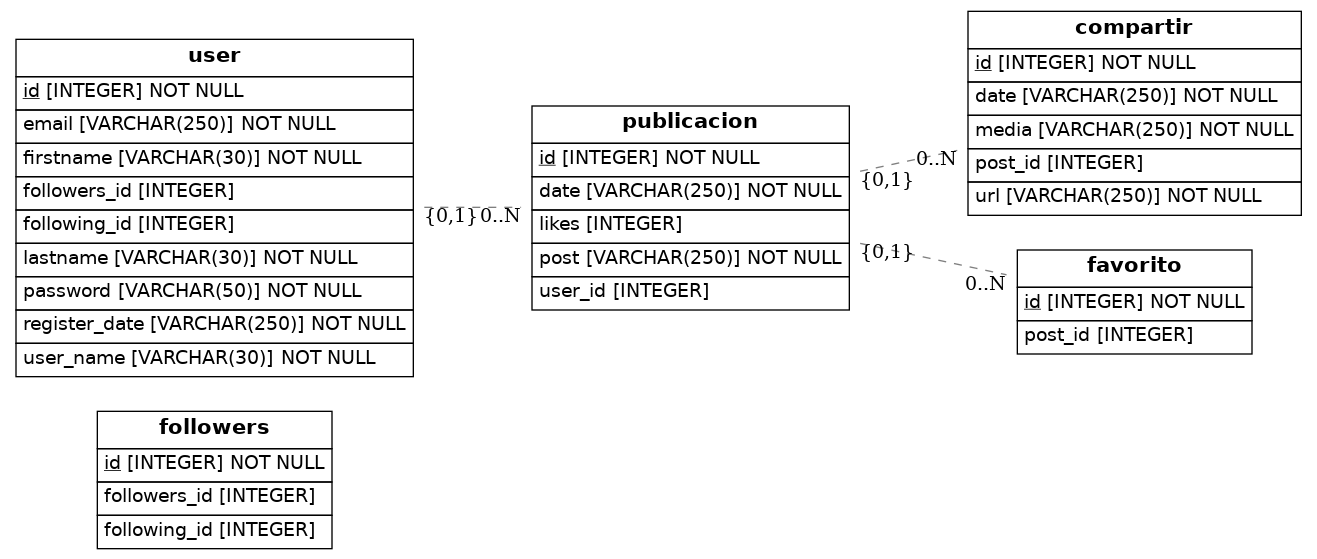
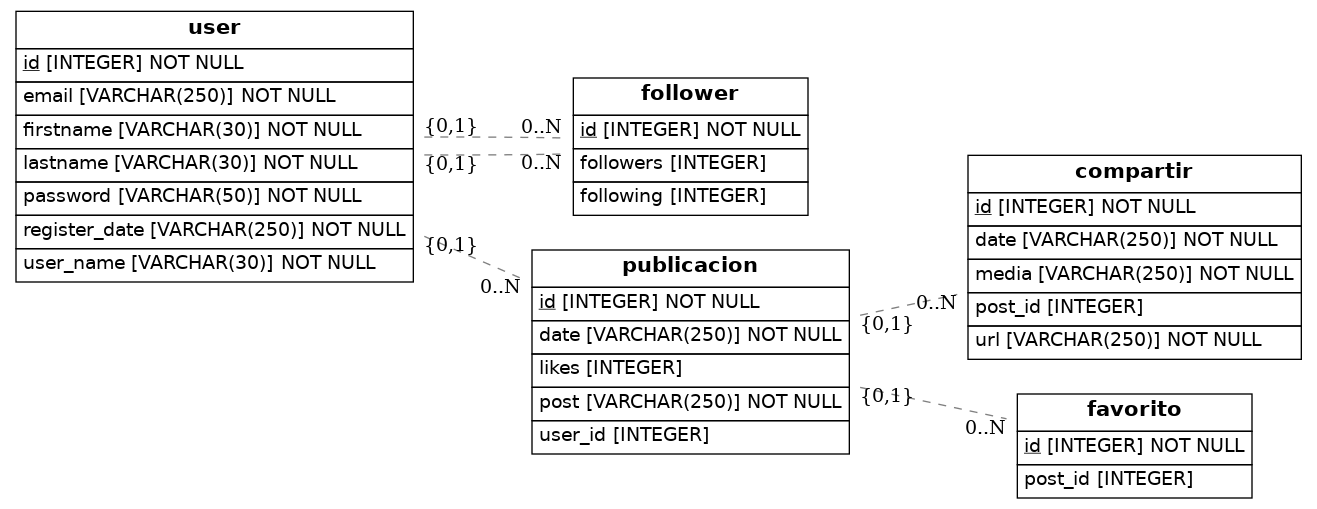
Corregido tabla followers

Changed region(s): [[0.0, 0.0, 0.9962, 0.9136], [0.0623, 0.7073, 0.2491, 1.0], [0.716, 0.7662, 0.9651, 1.0]]

diff --git a/src/models.py b/src/models.py
@@ -8,13 +8,7 @@ from eralchemy2 import render_er
 
 Base = declarative_base()
 
-class Followers(Base):
-    __tablename__='followers'
-
-    id = Column(Integer, primary_key=True)
-    followers_id = Column(Integer)
-    following_id = Column(Integer)
-
+    
 class User(Base):
     __tablename__ = 'user'
     # Here we define columns for the table person
@@ -26,11 +20,13 @@ class User(Base):
     lastname= Column(String(30), nullable=False)
     register_date=Column(String(250), nullable=False)
     email=Column(String(250), nullable=False,unique=True)
-    followers_id = Column(Integer, ForeignKey('Followers.followers_id'))
-    followers = relationship(Followers)
-    following_id = Column(Integer, ForeignKey('Followers.following_id'))
-    following = relationship(Followers)
 
+class Followers(Base):
+    __tablename__ = 'follower'
+    id = Column(Integer, primary_key=True)
+    followers = Column(Integer, ForeignKey('user.id'))
+    following = Column(Integer, ForeignKey('user.id'))
+    user = relationship(User)
 
 class Publicaciones(Base):
     __tablename__ = 'publicacion'
